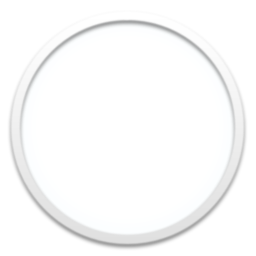
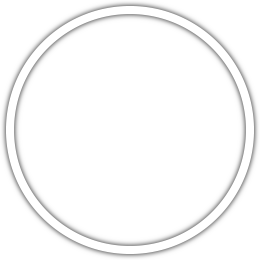
feat: update hit circles

Changed region(s): [[0.0, 0.0, 1.0, 1.0]]

diff --git a/src/procedures/circles/__init__.py b/src/procedures/circles/__init__.py
@@ -1,42 +1,7 @@
-from PIL import Image
-from glob import glob
-
-from shutil import copyfile
-
-opacity = 1.0
-
-
-def parse_approachcircle():
-    img = Image.open("src/procedures/circles/approachcircle.png")
-
-    if opacity >= 1.0:
-        img = img.convert("RGBA")
-
-        data = []
-        for (r, g, b, a) in img.getdata():
-            data.append((r, g, b, int(a * opacity)))
-
-        img.putdata(data)
-
-    img.save("dist/approachcircle@2x.png")
-
-
-def parse_followpoint():
-    copyfile("src/procedures/etc/1x1.png", "dist/followpoint.png")
-
-
-def parse_hitcircles():
-    copyfile("src/procedures/circles/hitcircle.png", "dist/hitcircle@2x.png")
-    copyfile(
-        "src/procedures/circles/hitcircleoverlay.png",
-        "dist/hitcircleoverlay@2x.png",
-    )
-
+from src.helper import copy_all
 
 #
 # main
 #
 
-parse_approachcircle()
-parse_followpoint()
-parse_hitcircles()
+copy_all("src/procedures/circles/*.png", True)

diff --git a/README.md b/README.md
@@ -13,6 +13,7 @@ My custom skin for the game [osu!](https://github.com/ppy/osu).
 - minimalistic
   - does not even have a health bar
   - uses the default element in most cases
+- instant fade circles
 - skins osu!standard only
 - acc meter positioned on top of the screen instead of the bottom
 - made specifically for osu!lazer
